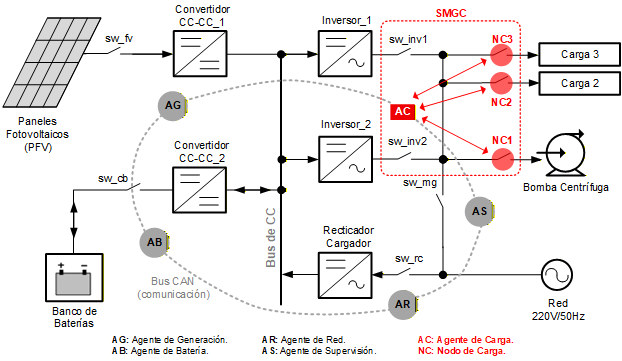
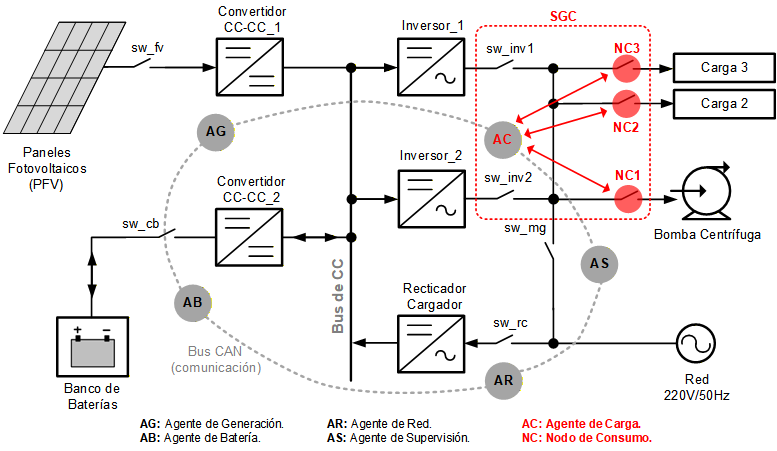
Correcciones gramaticales en el texto e imágen de la arquitectura.

diff --git a/2-2_ArquitecturaPropuesta.tex b/2-2_ArquitecturaPropuesta.tex
@@ -67,7 +67,7 @@ Este ciclo de ejecución continuo permite que el nodo adapte su comportamiento e
 
 Para complementar la gestión local realizada por el Agente de Carga y los Nodos de Consumo, se diseñó una arquitectura de supervisión remota basada en el paradigma de Internet de las Cosas (IoT). Esta capa superior del sistema tiene como objetivo desacoplar la adquisición de datos de su visualización, permitiendo el monitoreo histórico y en tiempo real desde cualquier ubicación con acceso a internet.
 
-La arquitectura propuesta, ilustrada en la Figura~\ref{img:plataforma-iot-prop}, se fundamenta en un esquema de microservicios contenerizados, apoyado en la contenerización con Docker descrita en la Sección~\ref{sec:docker}. A diferencia de las aplicaciones monolíticas tradicionales, este enfoque divide las funcionalidades del servidor (recepción de datos, almacenamiento, procesamiento e interfaz) en unidades independientes o \enquote{contenedores} que se comunican entre sí a través de una red virtual interna.
+La arquitectura propuesta, ilustrada en la Figura~\ref{img:plataforma-iot-prop}, se fundamenta en un esquema de microservicios, apoyado en la contenerización con Docker descrita en la Sección~\ref{sec:docker}. A diferencia de las aplicaciones monolíticas tradicionales, este enfoque divide las funcionalidades del servidor (recepción de datos, almacenamiento, procesamiento e interfaz) en unidades independientes o \enquote{contenedores} que se comunican entre sí a través de una red virtual interna.
 
 \begin{figure}[hbt!]
     \centering
@@ -92,7 +92,7 @@ En la implementación de referencia para este trabajo, se optó por un Servidor 
 
 \subsection{Arquitectura de Software y Flujo de Datos}
 
-La lógica de interconexión se basa en el flujo de datos ascendente desde el \ing{hardware} de campo hacia la interfaz de usuario. Cada contenedor Docker desempeña un rol específico en esta cadena de procesamiento:
+La lógica de interconexión se basa en el flujo de datos ascendente desde el \ing{hardware} hacia la interfaz de usuario. Cada contenedor Docker desempeña un rol específico en esta cadena de procesamiento:
 
 \begin{enumerate}
     \item \textbf{Ingreso de Datos (\ing{Broker} MQTT):} Es el punto de entrada de la información. Este contenedor actúa como un concentrador de mensajes que recibe las tramas de telemetría enviadas por el módulo de comunicación del Agente de Carga (ESP32-S3). Su función es puramente de transporte y enrutamiento; no procesa ni almacena los datos, simplemente los distribuye a los servicios que estén suscritos a los tópicos correspondientes (como consumo, tensión o disponibilidad).

diff --git a/2-1_MarcoTeorico.tex b/2-1_MarcoTeorico.tex
@@ -51,7 +51,7 @@ La implementación de MAS en el control de microrredes proporciona beneficios si
 
 \subsection{Teoría del consenso medio}
 \label{sec:consenso_medio}
-en el firmware de cada nodo.
+
 El consenso medio es un algoritmo fundamental en los sistemas distribuidos que permite que un grupo de agentes alcance un acuerdo sobre el promedio de sus estados iniciales mediante intercambios de información únicamente con sus vecinos directos \cite{OlfatiSaber2004}. En el SGC propuesto, esta teoría permite que cada Nodo de Consumo (NC) estime la corriente total demandada por la red sin depender de un servidor central. A través de iteraciones sucesivas, los nodos convergen hacia un valor común de consumo total agregado, lo que permite la ejecución de la lógica de priorización distribuida. Para el tratamiento de la información procesada por muestras, la dinámica de actualización de estado para cada agente $i$ se expresa de forma discreta mediante la Ecuación \ref{eq:consenso_discreto}:
 \begin{equation}x_i[k+1] = \omega_{ii} x_i[k] + \sum_{j \in N_i} \omega_{ij} x_j[k]\label{eq:consenso_discreto}\end{equation}
 En esta ecuación, los componentes representan:
